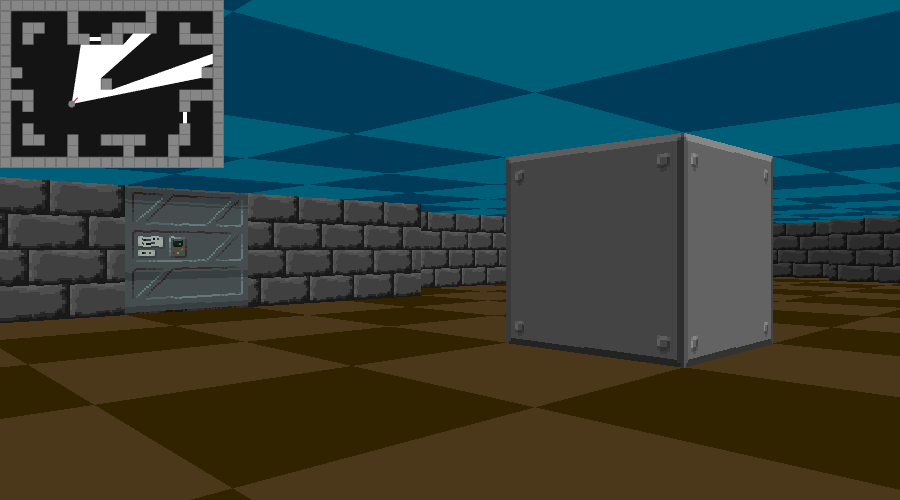
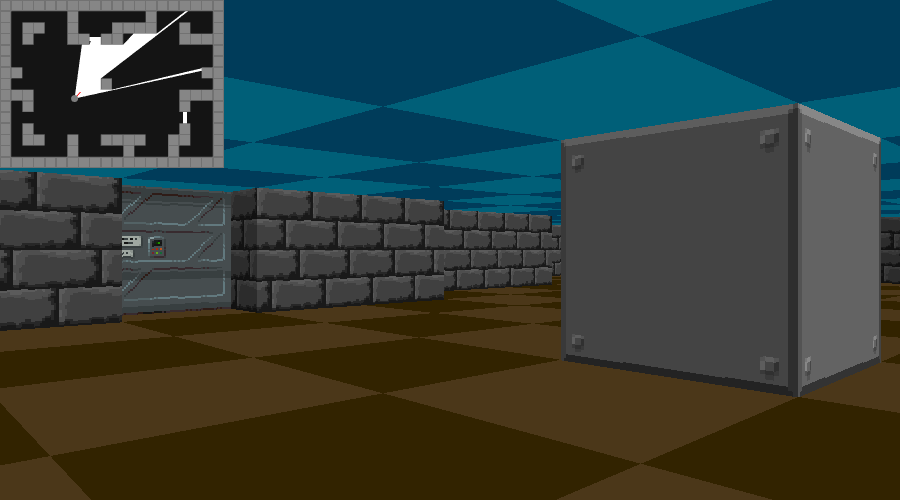
reAdd door opening animation and thin wall suport

diff --git a/src/RayCasting.cpp b/src/RayCasting.cpp
@@ -18,42 +18,6 @@ RayCasting::~RayCasting()
     
 }
 
-// Private functions
-    // while (rayLength < MAX_RAY_LEGHT)
-    // {
-    //     // If the ray hit a wall we stop expending the ray
-    //     if (mapManager->chekPointCollision(rayEndPos))
-    //     {
-    //         short collideCellId = mapManager->getCellId("collision", rayEndPos);
-            
-    //         if (collideCellId == MAP_WALL_ID)
-    //         {
-    //             rayHitInfo.textureCol = static_cast<short>(std::floor(std::fmod(rayEndPos.y, CELL_SIZE) * (TEXTURE_SIZE / CELL_SIZE)));
-    //             // rayHitInfo.addShadows = true;
-    //             break;   
-    //         } 
-    //         else if (collideCellId == MAP_VERTICAL_DOOR_ID)
-    //         {
-    //             Vector2d tmpRayEndPos(rayEndPos.x + step.x / 2, rayEndPos.y + step.y / 2);
-
-    //             if (mapManager->chekPointCollision(tmpRayEndPos) && mapManager->getCellId("collision", tmpRayEndPos) == MAP_VERTICAL_DOOR_ID)
-    //             {
-    //                 double doorOpeningState = mapManager->getDoorOpeningState(mapManager->getCellPos(tmpRayEndPos));
-                    
-    //                 if (std::fmod(tmpRayEndPos.y, CELL_SIZE) > doorOpeningState)
-    //                 {
-    //                     hitDoor = true;
-    //                     rayLength += deltaRayLength / 2;
-    //                     rayHitInfo.textureCol = static_cast<short>(std::floor(std::fmod(tmpRayEndPos.y, CELL_SIZE) * 2 - doorOpeningState * (TEXTURE_SIZE / CELL_SIZE)));
-    //                     // rayHitInfo.addShadows = false;
-    //                     break;
-    //                 }
-    //             }
-    //         }
-    //     }
-
-    // if (cos_a < 0 && !hitDoor) rayHitInfo.textureCol = TEXTURE_SIZE - 1 - rayHitInfo.textureCol;
-
 void RayCasting::castWalls(std::shared_ptr<MapManager> mapManager, const Vector2f playerPos, const Vector2i playerCellPos, const Vector2f playerDir)
 {
     RayHitInfo rayHitInfo;
@@ -64,7 +28,7 @@ void RayCasting::castWalls(std::shared_ptr<MapManager> mapManager, const Vector2
         //calculate ray position and direction
         double cameraX = 2 * (SCREEN_WIDTH - x) / (double)SCREEN_WIDTH - 1; //x-coordinate in camera space
 
-        sf::Vector2<double> rayDir;
+        Vector2d rayDir;
         rayDir.x = playerDir.x + this->plane.x * cameraX;
         rayDir.y = playerDir.y + this->plane.y * cameraX;
 
@@ -103,6 +67,8 @@ void RayCasting::castWalls(std::shared_ptr<MapManager> mapManager, const Vector2
             sideDist.y = (cellPos.y + 1.0 - playerPos.y) * deltaDist.y;
         }
 
+        bool hitDoor = false;
+
         //perform DDA
         while (true)
         {
@@ -119,8 +85,68 @@ void RayCasting::castWalls(std::shared_ptr<MapManager> mapManager, const Vector2
                 cellPos.y += step.y;
                 rayHitInfo.hitSide = 1;
             }
-            //Check if ray has hit a wall
-            if (mapManager->chekPointCollision(Vector2f(cellPos.x * CELL_SIZE, cellPos.y * CELL_SIZE))) break;
+            
+            // Check ray collision
+            if (mapManager->chekPointCollision(Vector2f(cellPos.x * CELL_SIZE, cellPos.y * CELL_SIZE)))
+            {
+                short collideCellId = mapManager->getCellId("collision", Vector2f(cellPos.x * CELL_SIZE, cellPos.y * CELL_SIZE));
+                
+                if (collideCellId == MAP_WALL_ID)
+                {
+                    break;   
+                } 
+                else if ((collideCellId == MAP_HORIZONTAL_DOOR_ID || collideCellId == MAP_VERTICAL_DOOR_ID))
+                {
+                    Vector2f tmpRayEndPos;
+                    
+                    if (rayHitInfo.hitSide == 0)
+                    {
+                        tmpRayEndPos.x = (playerPos.x + (sideDist.x + deltaDist.x / 2 - deltaDist.x) * rayDir.x) * CELL_SIZE;
+                        tmpRayEndPos.y = (playerPos.y + (sideDist.x + deltaDist.x / 2 - deltaDist.x) * rayDir.y) * CELL_SIZE;
+                    }
+                    else
+                    {
+                        tmpRayEndPos.x = (playerPos.x + (sideDist.y + deltaDist.y / 2 - deltaDist.y) * rayDir.x) * CELL_SIZE;
+                        tmpRayEndPos.y = (playerPos.y + (sideDist.y + deltaDist.y / 2 - deltaDist.y) * rayDir.y) * CELL_SIZE;
+                    }
+                    
+                    collideCellId = mapManager->getCellId("collision", tmpRayEndPos);
+
+                    if (mapManager->chekPointCollision(tmpRayEndPos) && (collideCellId == MAP_HORIZONTAL_DOOR_ID || collideCellId == MAP_VERTICAL_DOOR_ID))
+                    {
+                        float doorOpeningState = mapManager->getDoorOpeningState(mapManager->getCellPos(tmpRayEndPos));
+
+                        double tmpDeltaCell;
+                        
+                        if (rayHitInfo.hitSide == 0)
+                        {
+                            tmpDeltaCell = std::fmod(tmpRayEndPos.y, CELL_SIZE);
+                        }
+                        else
+                        {
+                            tmpDeltaCell = std::fmod(tmpRayEndPos.x, CELL_SIZE);
+                        }
+                        
+                        if (tmpDeltaCell > doorOpeningState)
+                        {
+                            hitDoor = true;
+                            
+                            if (rayHitInfo.hitSide == 0)
+                            {
+                                sideDist.x += deltaDist.x / 2;
+                            }
+                            else
+                            {
+                                sideDist.y += deltaDist.y / 2;
+                            }
+
+                            rayHitInfo.textureCol = (short)(std::floor(tmpDeltaCell * 2 - doorOpeningState * (TEXTURE_SIZE / CELL_SIZE)));
+
+                            break;
+                        }
+                    }
+                }
+            }
         }
 
         //Calculate distance of perpendicular ray (Euclidean distance would give fisheye effect!)
@@ -137,7 +163,7 @@ void RayCasting::castWalls(std::shared_ptr<MapManager> mapManager, const Vector2
         deltaCell -= std::floor(deltaCell);
 
         //x coordinate on the texture
-        rayHitInfo.textureCol = short(deltaCell * double(TEXTURE_SIZE));
+        if (!hitDoor) rayHitInfo.textureCol = short(deltaCell * double(TEXTURE_SIZE));
 
         // colision on vertical rayHitInfo.hitSide
         if (rayHitInfo.hitSide == 0)
@@ -145,7 +171,7 @@ void RayCasting::castWalls(std::shared_ptr<MapManager> mapManager, const Vector2
             if (rayDir.x < 0)
             {
                 rayEndPos.x -= 0.001;
-                rayHitInfo.textureCol = TEXTURE_SIZE - rayHitInfo.textureCol - 1;
+                if (!hitDoor) rayHitInfo.textureCol = TEXTURE_SIZE - rayHitInfo.textureCol - 1;
             }
             else
             {
@@ -158,7 +184,7 @@ void RayCasting::castWalls(std::shared_ptr<MapManager> mapManager, const Vector2
             if (rayDir.y > 0)
             {
                 rayEndPos.y += 0.001;
-                rayHitInfo.textureCol = TEXTURE_SIZE - rayHitInfo.textureCol - 1;
+                if (!hitDoor) rayHitInfo.textureCol = TEXTURE_SIZE - rayHitInfo.textureCol - 1;
             }
             else
             {
